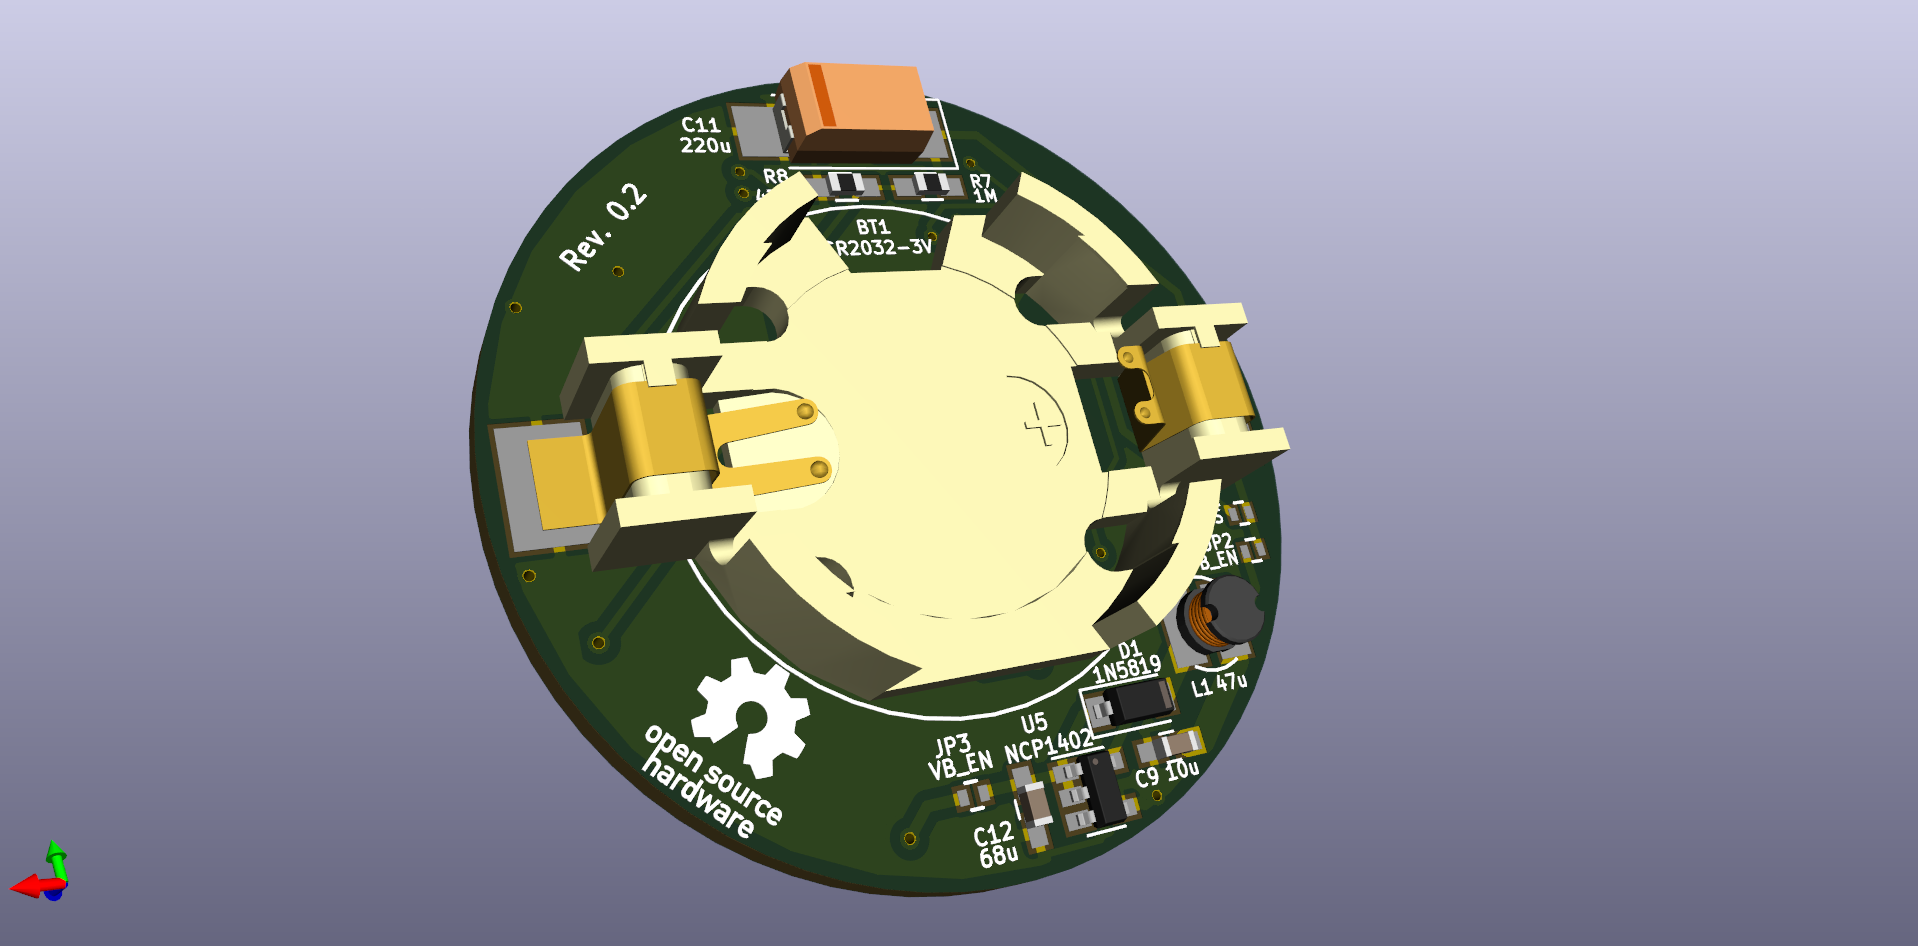
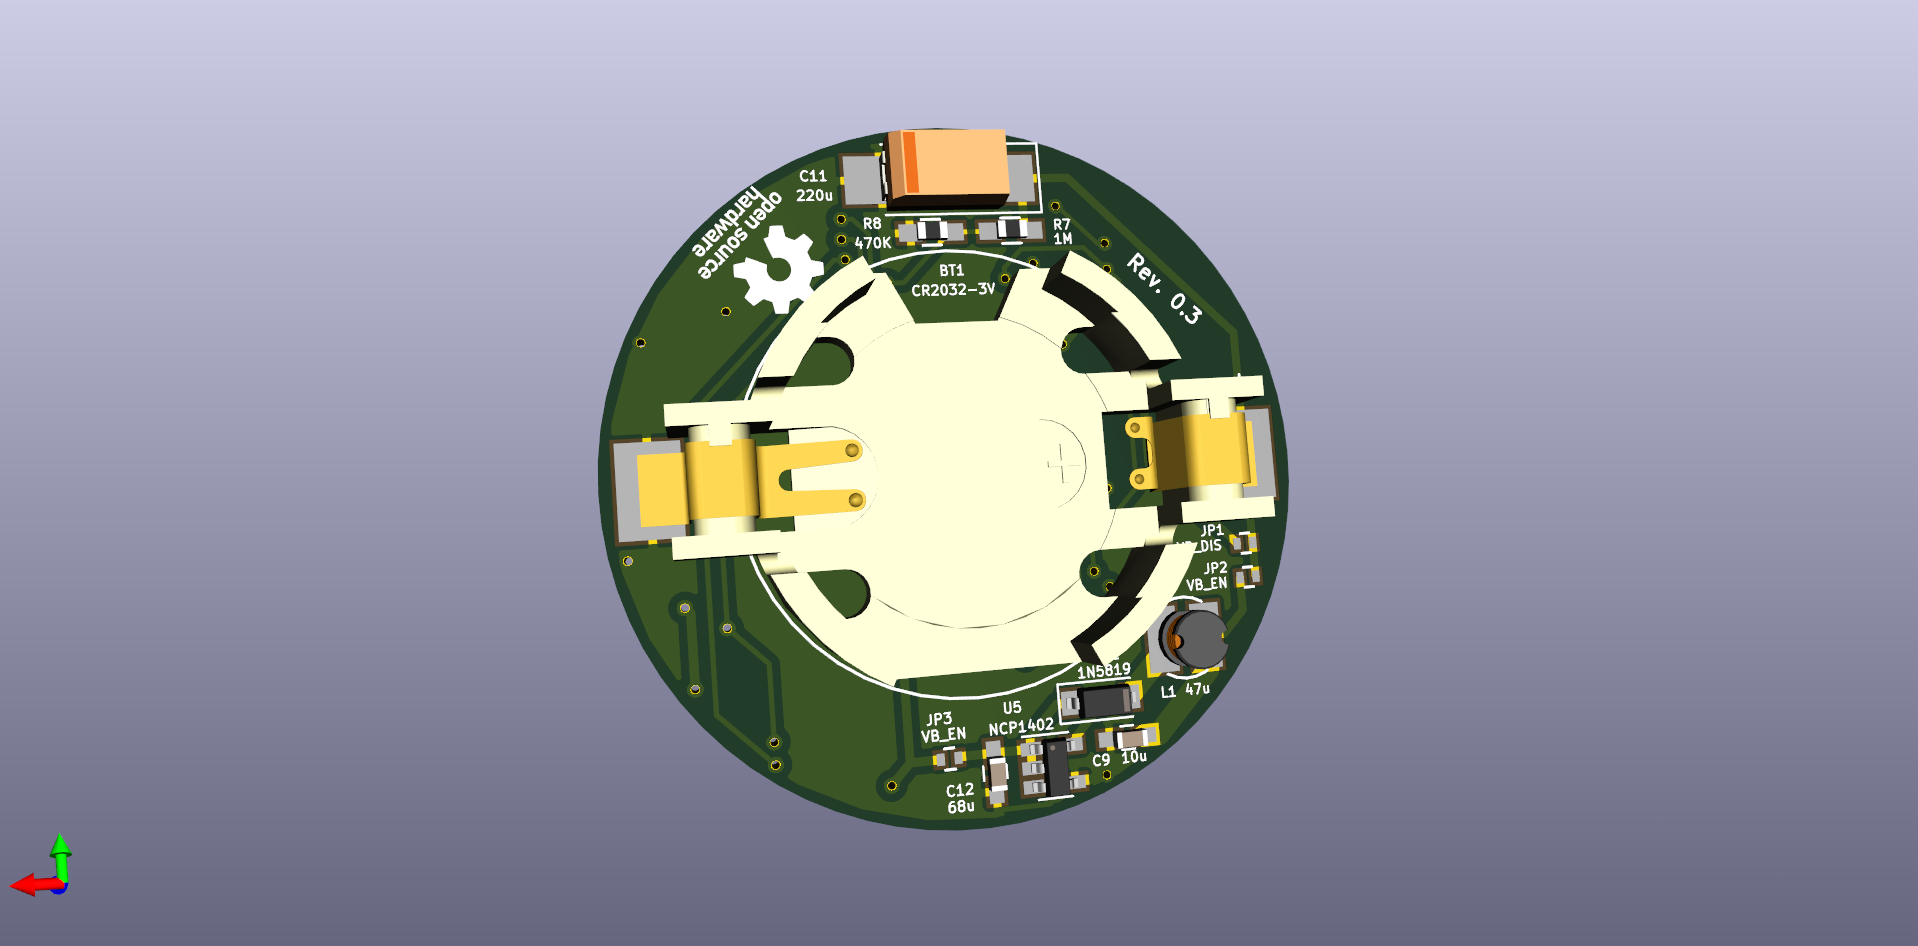
[mysensors multisensor_CR2032] updated renderings and readme

Changed region(s): [[0.2461, 0.0613, 0.6767, 0.9503], [0.0, 0.889, 0.0615, 0.9503]]

diff --git a/mysensors/node/multisensor_CR2032/README.md b/mysensors/node/multisensor_CR2032/README.md
@@ -1,21 +1,22 @@
-## Mysensors RFM69W temperature/humidity node(CR2032)
+## Mysensors RFM69W multisensor node(CR2032)
 
 
 ##### 3D renderings of pcb
 
 Top view | Bottom view
 ------------ | -------------
-![Alt text](3d/renderings/temperature_humidity_top.png?raw=true "top view") | ![Alt text](3d/renderings/temperature_humidity_bottom.png?raw=true "bottom view")
+![Alt text](3d/renderings/multisensor_cr2032_top.png?raw=true "top view") | ![Alt text](3d/renderings/multisensor_cr2032_bottom.png?raw=true "bottom view")
 
 
 
 **Description:**
 
-This is a Mysensors node using **RFM69W** radio module and **Si7021** temperature/humidity sensor. 
+This is a Mysensors node using **RFM69W** radio module, **Si7021** temperature/humidity sensor and **MAX44009** ambient light sensor. 
 
 **Key Features:**
 
  - **Si7021** temperature/humidity sensor
+ - **MAX44009** ambient light sensor
  - **ATSHA204A** for signing
  - **AT25DF512C-SSHN-B** SPI flash module for OTA
  - **MySensors** ready(**Atmega328p** + **RFM69W**)
@@ -36,6 +37,7 @@ This is a Mysensors node using **RFM69W** radio module and **Si7021** temperatur
 **HW Revisions:**
  - 0.1 - initial design
  - 0.2 - added option to bypass step-up converter using jumpers
+ - 0.3 - added MAX44009 ambient light sensor
 
 **Credits:**
   
